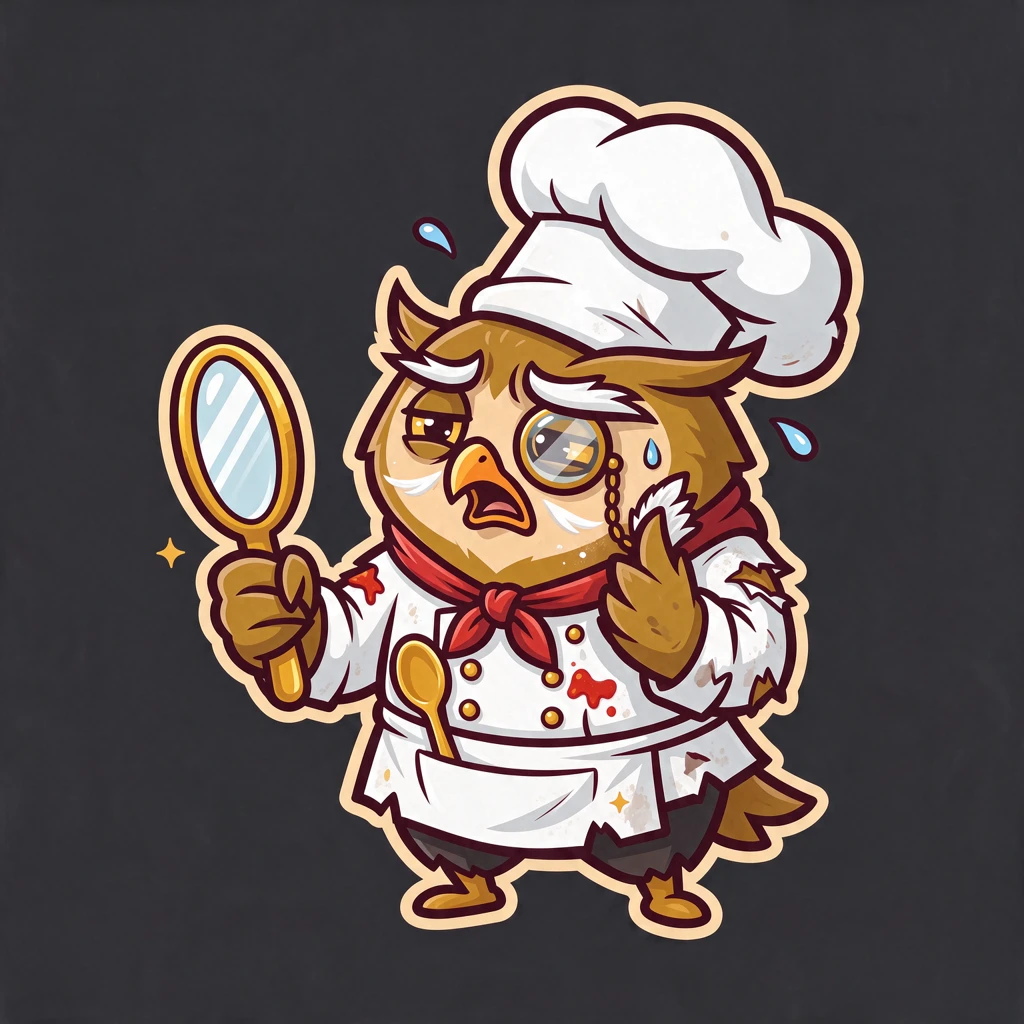
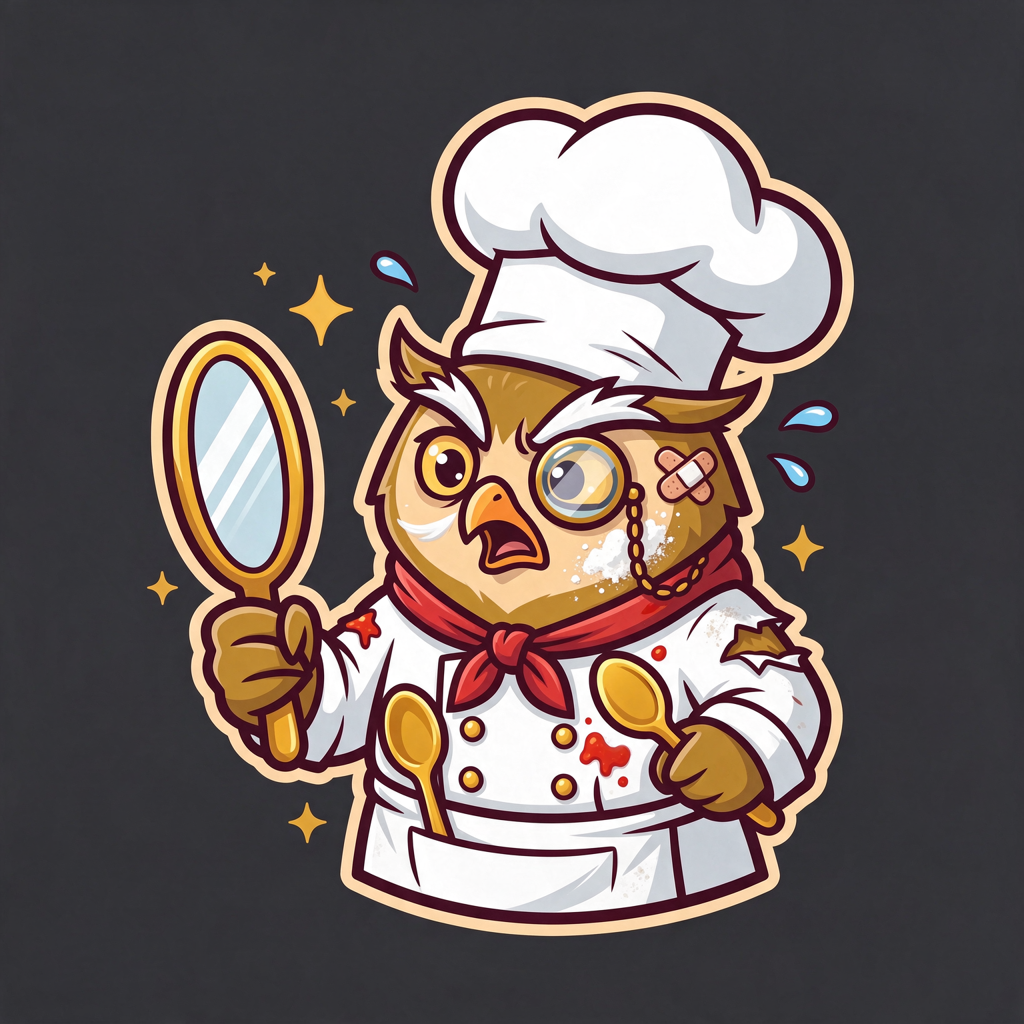
Boss Egocentrický Šéfkuchař zapojen (od 14. 12.)
Claude-Session: https://claude.ai/code/session_01BQmFBYsgGAXtVP2veUue6Z

diff --git a/sw.js b/sw.js
@@ -73,7 +73,7 @@ const APP_SHELL = [
     // pro rozsvěcování od ★11 (scripts/prestige-gem.py)
     ...PRESTIGE_ART.map(id => `icons/topics/${id}.webp`),
     // Boss týdne (boss.js ART): čtyři stupně každého bosse a jeho aréna
-    ...['kapitan', 'rytir', 'alchymista', 'amper', 'maestro', 'druid', 'olympan', 'reziser', 'herold', 'permonik', 'stavitel', 'malir', 'kronikar', 'trener', 'vynalezce'].flatMap(id => [`boss-${id}`, `boss-${id}-zraneny`, `boss-${id}-vkoncich`, `boss-${id}-porazeny`, `arena-${id}`]).map(id => `icons/topics/${id}.webp`),
+    ...['kapitan', 'rytir', 'alchymista', 'amper', 'maestro', 'druid', 'olympan', 'reziser', 'herold', 'permonik', 'stavitel', 'malir', 'kronikar', 'trener', 'vynalezce', 'sefkuchar'].flatMap(id => [`boss-${id}`, `boss-${id}-zraneny`, `boss-${id}-vkoncich`, `boss-${id}-porazeny`, `arena-${id}`]).map(id => `icons/topics/${id}.webp`),
     // Stavby na mapě Dobývání (conquest.js BUILDINGS, scripts/building-art.py): základ a vrstva střech a vlaječek v barvě hráče
     // a základní stavby a ozdoby z bloku 41 (strážní věž, důl, tábor obléhatelů, pomník vítěze; zřícenina bez vrstvy barvy). Stavby v sadách
     // hradů (vez-<sada>, dul-<sada>, zricenina-<sada>) se uloží až při použití jako ostatní obrázky sad

diff --git a/boss.js b/boss.js
@@ -402,7 +402,8 @@
     const ROTATION = [
         { from: '2026-11-09', ids: ['kapitan', 'rytir', 'alchymista', 'amper', 'maestro', 'druid', 'olympan', 'reziser'] },
         { from: '2026-11-30', ids: ['herold', 'amper', 'stavitel', 'maestro', 'malir', 'druid', 'kronikar', 'olympan', 'vynalezce', 'reziser', 'kapitan', 'rytir', 'alchymista'] },
-        { from: '2026-12-07', ids: ['permonik', 'amper', 'trener', 'stavitel', 'maestro', 'malir', 'druid', 'kronikar', 'olympan', 'vynalezce', 'reziser', 'kapitan', 'rytir', 'alchymista', 'herold'] }
+        { from: '2026-12-07', ids: ['permonik', 'amper', 'trener', 'stavitel', 'maestro', 'malir', 'druid', 'kronikar', 'olympan', 'vynalezce', 'reziser', 'kapitan', 'rytir', 'alchymista', 'herold'] },
+        { from: '2026-12-14', ids: ['sefkuchar', 'amper', 'trener', 'stavitel', 'maestro', 'malir', 'druid', 'kronikar', 'olympan', 'vynalezce', 'reziser', 'kapitan', 'rytir', 'alchymista', 'herold', 'permonik'] }
     ];
     // @rotace-konec
     // Bossové ve hře: ti, kdo jsou v některém úseku rotace, v pořadí soupisky (stejné pořadí má BOSS_EMBLEMS v quiz-core.js

diff --git a/quiz-core.js b/quiz-core.js
@@ -3093,7 +3093,8 @@
         ['malir', 'Dokonalý Malíř', 'Dokonalého Malíře', 'Přemožitel Dokonalého Malíře'],
         ['kronikar', 'Všemocný Kronikář', 'Všemocného Kronikáře', 'Přemožitel Všemocného Kronikáře'],
         ['trener', 'Nekompromisní Trenér', 'Nekompromisního Trenéra', 'Přemožitel Nekompromisního Trenéra'],
-        ['vynalezce', 'Šílený Vynálezce', 'Šíleného Vynálezce', 'Přemožitel Šíleného Vynálezce']
+        ['vynalezce', 'Šílený Vynálezce', 'Šíleného Vynálezce', 'Přemožitel Šíleného Vynálezce'],
+        ['sefkuchar', 'Egocentrický Šéfkuchař', 'Egocentrického Šéfkuchaře', 'Přemožitel Egocentrického Šéfkuchaře']
     ];
     BOSS_EMBLEMS.forEach(([id, name, whom, title]) => addGroup(`boss-${id}`, `Boss týdne: ${name}`, 'swords', (c, x) => (x && x.bosses && x.bosses[id] ? 1 : 0),
         () => `Poraz bosse týdne ${whom}.`, [T(1, title, `boss-${id}`)]));

diff --git a/docs/NOVE-MODY.md b/docs/NOVE-MODY.md
@@ -184,7 +184,7 @@ Co ukáže obrazovka otázky (listopad 2026; Řetězovka, č. 6, má vlastní pr
 | `kronikar` | Všemocný Kronikář | Literatura | Strážce příběhů s Knihou osudů, co do ní zapíše, to se stane |
 | `trener` | Nekompromisní Trenér | Sport | Věčný šampion a drsný instruktor, žádné výmluvy, kdo neví, dělá kliky |
 | `vynalezce` | Šílený Vynálezce | Technika a vynálezy | Bláznivý génius s robotem Šroubkem, každý pokus mu vybuchne |
-| `sefkuchar` | Egocentrický Šéfkuchař | Jídlo a pití | Mistr plotny a narcis, obdivuje sám sebe, jeho jídla jsou nejlepší na světě *(čeká na obrázky)* |
+| `sefkuchar` | Egocentrický Šéfkuchař | Jídlo a pití | Mistr plotny a narcis, obdivuje sám sebe, jeho jídla jsou nejlepší na světě |
 
 - **Úvod souboje**:
   - aréna na pozadí;
